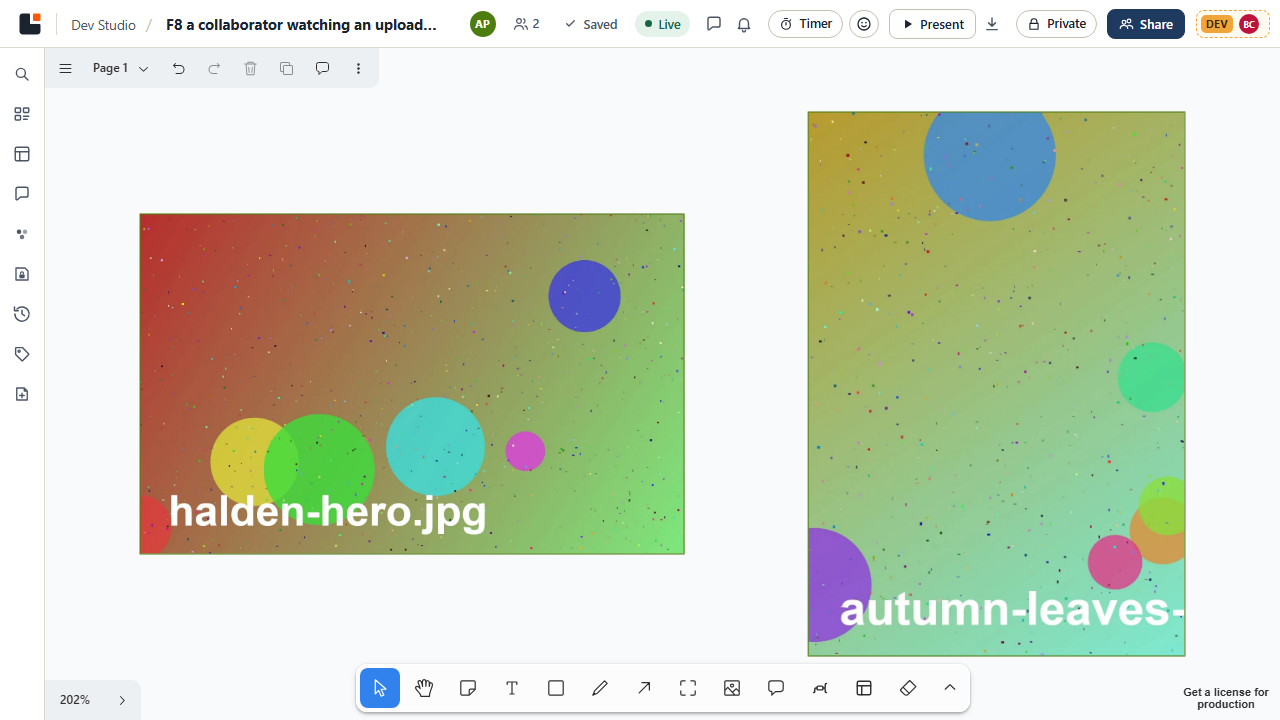
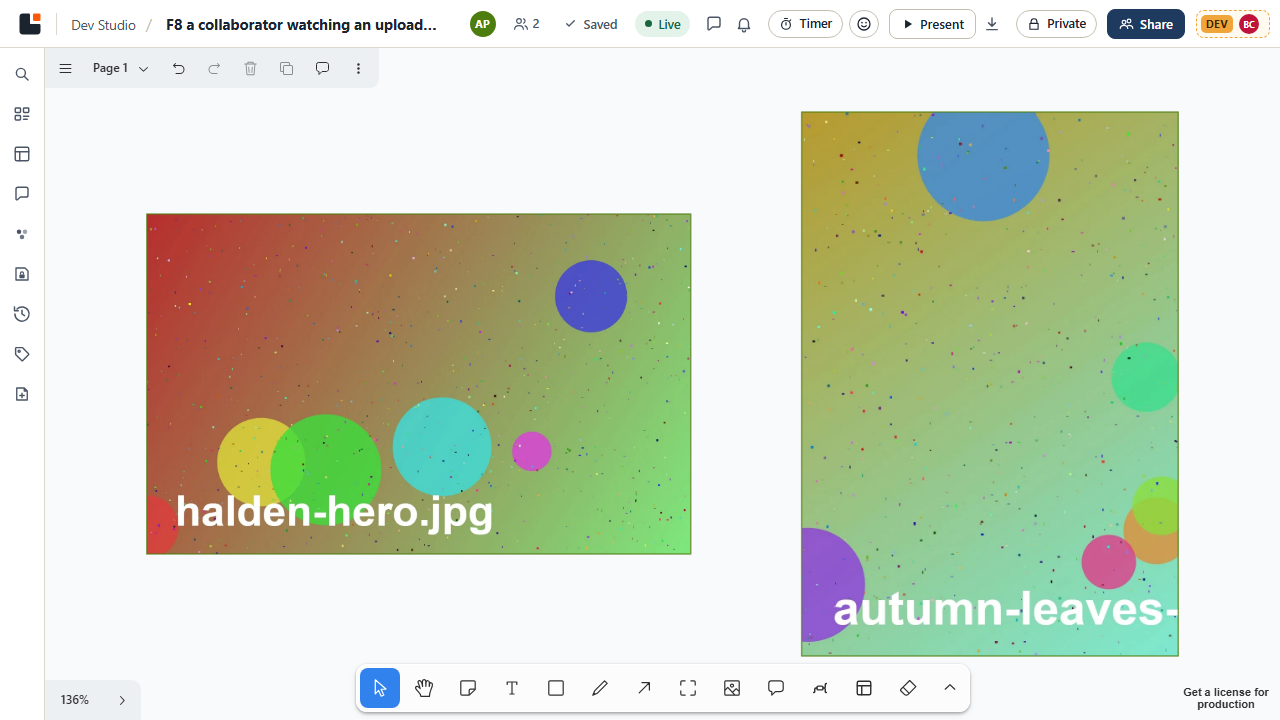
Integration: Ctrl+U works from Lobby's chrome; a mixed drop keeps one scale with page-space image sizes
keyboard-safety gated Ctrl/Cmd+U (insert-media) when the focus was on the selection bar after an
upload; it only opens the file picker, so it joins the chrome-safe actions. canvas-3 made image cells
page-space (400 by default), larger than a file card, and cards never scale up, so a mixed drop came
out 12% apart; the cell is now capped at the largest card.

diff --git a/apps/web/src/assets/drop-layout.ts b/apps/web/src/assets/drop-layout.ts
@@ -155,7 +155,10 @@ export function layoutMixedGrid(
   // Page-space sizes (F2-01) cap the upscale in page units, the same at every zoom.
   const zoom = isSide(side) ? 1 : saneZoom(view.zoom)
   const largestCard = Math.max(0, ...cards.map((c) => Math.max(saneSize(c).w, saneSize(c).h)))
-  const cell = Math.max(imageCellSide(images.length, view, side), largestCard * DROP_LAYOUT.cardMinScale)
+  let cell = Math.max(imageCellSide(images.length, view, side), largestCard * DROP_LAYOUT.cardMinScale)
+  // Cards are never scaled up (cardInCell), so a cell larger than the largest card would leave the cards
+  // smaller than the images: in a mixed drop the images take the cards' size instead (F12: one scale).
+  if (largestCard > 0) cell = Math.min(cell, largestCard)
   const gap = isSide(side) ? pageGap(cell) : DROP_LAYOUT.gapPx / zoom
   const cols = Math.max(1, Math.ceil(Math.sqrt(images.length)), Math.ceil(Math.sqrt(cards.length)))
   const at = (index: number, size: Size): Rect => {

diff --git a/apps/web/src/features/canvas-ux/keyboard-scope.ts b/apps/web/src/features/canvas-ux/keyboard-scope.ts
@@ -27,6 +27,9 @@ export const CHROME_SAFE_ACTIONS: ReadonlySet<string> = new Set([
   'zoom-to-selection',
   'keyboard-shortcuts',
   'dr-board-search',
+  // Ctrl/Cmd+U only opens the file picker (files land where the board is looking), so it works from Lobby's
+  // chrome too, e.g. right after an upload leaves the focus on the selection bar or its toast.
+  'insert-media',
 ])
 
 /**
